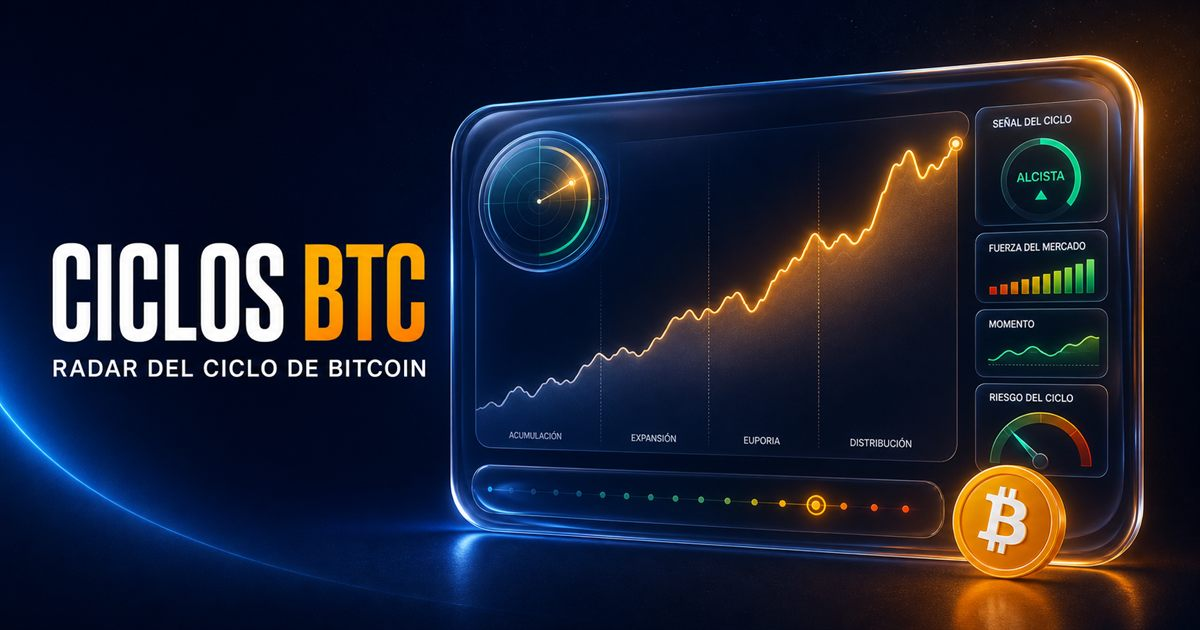
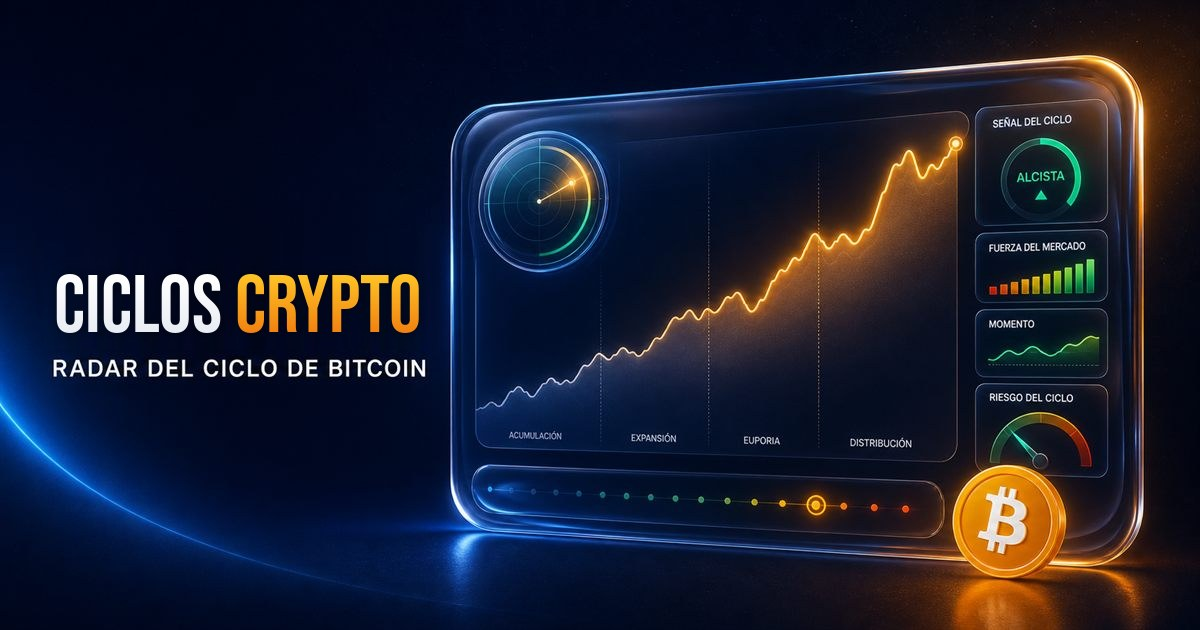
La app pasa a llamarse Ciclos Crypto
- Barra superior («Ciclos Crypto», con «Crypto» en el degradado naranja),
  título de la pestaña, nombre de la app instalada (manifiesto y iPhone),
  avisos push, textos de Información y Desarrollador, README y CLAUDE.md.
- Imagen al compartir el enlace (og.jpg): el mismo diseño con «CICLOS CRYPTO»
  en lugar de «CICLOS BTC»; «?v=2» para que WhatsApp, Telegram y compañía no
  sigan enseñando la anterior.
- En móviles de menos de 375 px el nombre no cabía: allí «LIVE» se queda en el
  punto (el estado lo sigue diciendo la etiqueta del botón) y, por debajo de
  360 px, los botones de moneda van un poco más juntos. Desde 375 px, igual.
- Lo interno (repositorio, claves guardadas en el navegador, caché) mantiene
  su nombre para no perder las preferencias de nadie.

Claude-Session: https://claude.ai/code/session_01L5NszNG9yirUS6hSs5xwUZ

Changed region(s): [[0.0308, 0.3619, 0.37, 0.5429]]

diff --git a/index.html b/index.html
@@ -16,27 +16,27 @@
     <meta name="theme-color" content="#071020" />
     <meta name="color-scheme" content="dark light" />
     <meta name="mobile-web-app-capable" content="yes" />
-    <meta name="application-name" content="Ciclos BTC" />
+    <meta name="application-name" content="Ciclos Crypto" />
     <meta name="apple-mobile-web-app-capable" content="yes" />
     <meta name="apple-mobile-web-app-status-bar-style" content="black-translucent" />
-    <meta name="apple-mobile-web-app-title" content="Ciclos BTC" />
+    <meta name="apple-mobile-web-app-title" content="Ciclos Crypto" />
     <meta
       name="description"
       content="Dashboard de ciclos de Bitcoin: caídas históricas, halvings, RSI, Fear & Greed, smart money y macro. Educativo, no es consejo financiero."
     />
     <meta property="og:type" content="website" />
     <meta property="og:locale" content="es_ES" />
-    <meta property="og:title" content="Ciclos BTC · Radar del ciclo de Bitcoin" />
+    <meta property="og:title" content="Ciclos Crypto · Radar del ciclo de Bitcoin" />
     <meta property="og:description" content="Datos de mercado, sentimiento, on-chain y macro en un radar educativo optimizado para móvil." />
     <meta property="og:url" content="__SITE_ORIGIN__/" />
-    <meta property="og:image" content="__SITE_ORIGIN__/og.jpg" />
+    <meta property="og:image" content="__SITE_ORIGIN__/og.jpg?v=2" />
     <meta property="og:image:width" content="1200" />
     <meta property="og:image:height" content="630" />
     <meta name="twitter:card" content="summary_large_image" />
-    <meta name="twitter:title" content="Ciclos BTC · Radar del ciclo de Bitcoin" />
+    <meta name="twitter:title" content="Ciclos Crypto · Radar del ciclo de Bitcoin" />
     <meta name="twitter:description" content="Datos de mercado, sentimiento, on-chain y macro en un radar educativo optimizado para móvil." />
-    <meta name="twitter:image" content="__SITE_ORIGIN__/og.jpg" />
-    <title>Ciclos BTC · ¿Por Qué las Caídas Son Oportunidades?</title>
+    <meta name="twitter:image" content="__SITE_ORIGIN__/og.jpg?v=2" />
+    <title>Ciclos Crypto · ¿Por Qué las Caídas Son Oportunidades?</title>
   </head>
   <body>
     <div id="root"></div>

diff --git a/src/components/layout/TopBar.tsx b/src/components/layout/TopBar.tsx
@@ -79,7 +79,7 @@ export function TopBar({ source, lastUpdated, refreshing, error, sinConexion = f
             <MonedaBtc />
             <p className="truncate text-sm font-black tracking-tight min-[360px]:text-base sm:text-lg">
               <span className="text-primary">Ciclos </span>
-              <span className="bg-gradient-to-r from-amber-500 via-orange-500 to-orange-600 bg-clip-text text-transparent dark:from-amber-300 dark:via-orange-400 dark:to-orange-600">BTC</span>
+              <span className="bg-gradient-to-r from-amber-500 via-orange-500 to-orange-600 bg-clip-text text-transparent dark:from-amber-300 dark:via-orange-400 dark:to-orange-600">Crypto</span>
             </p>
           </div>
 
@@ -99,7 +99,8 @@ export function TopBar({ source, lastUpdated, refreshing, error, sinConexion = f
                   onClick={() => setCurrency(value)}
                   aria-pressed={currency === value}
                   className={cx(
-                    'min-h-9 rounded-full px-2.5 text-[10px] font-black uppercase sm:px-3 sm:text-xs',
+                    // En móviles muy estrechos, un poco más juntos: si no, el nombre no cabe.
+                    'min-h-9 rounded-full px-2 text-[10px] font-black uppercase min-[360px]:px-2.5 sm:px-3 sm:text-xs',
                     currency === value ? 'liquid-control-active text-white' : 'text-muted',
                   )}
                 >
@@ -153,7 +154,9 @@ export function TopBar({ source, lastUpdated, refreshing, error, sinConexion = f
                   )}
                 />
               </span>
-              {estado === 'sin-conexion' ? 'Offline' : 'Live'}
+              {/* Por debajo de 375 px, solo el punto (el estado lo dice la etiqueta
+                  del botón): si no, «Ciclos Crypto» no cabe en la barra. */}
+              <span className="max-[374px]:sr-only">{estado === 'sin-conexion' ? 'Offline' : 'Live'}</span>
             </button>
           </div>
 

diff --git a/src/components/views/InfoView.tsx b/src/components/views/InfoView.tsx
@@ -358,7 +358,7 @@ export function InfoView() {
     >
       {/* Los apartados van de borde a borde, como antes: se come el margen del cuadro. */}
       <div className="-mx-4 -my-4 divide-y divide-white/10 sm:-mx-5 sm:-mb-5">
-        <Section title="Qué es Ciclos BTC" subtitle="Y cómo está organizada">
+        <Section title="Qué es Ciclos Crypto" subtitle="Y cómo está organizada">
           <p>
             Un panel de contexto sobre el ciclo de mercado de Bitcoin. Reúne precio, ciclos de
             halving, indicadores técnicos, datos on-chain, derivados, estado de la red y entorno
@@ -701,7 +701,7 @@ export function InfoView() {
           icon={<ShieldAlert size={16} className="text-btc" aria-hidden="true" />}
         >
           <p>
-            Ciclos BTC presenta datos de mercado, estimaciones e indicadores históricos con fines
+            Ciclos Crypto presenta datos de mercado, estimaciones e indicadores históricos con fines
             exclusivamente informativos y educativos. Nada de lo mostrado constituye una
             recomendación de compra, venta o mantenimiento de Bitcoin ni de ningún otro activo.
           </p>

diff --git a/api/_lib/providers/coingecko.ts b/api/_lib/providers/coingecko.ts
@@ -446,7 +446,7 @@ export async function getPriceHistory(
         const quote = safeVs.toUpperCase();
         const raw = CryptoCompareHistorySchema.parse(
           await fetchJson<unknown>(
-            `https://min-api.cryptocompare.com/data/v2/histoday?fsym=BTC&tsym=${quote}&allData=true&extraParams=CiclosBTC`,
+            `https://min-api.cryptocompare.com/data/v2/histoday?fsym=BTC&tsym=${quote}&allData=true&extraParams=CiclosCrypto`,
             { provider: 'cryptocompare', timeoutMs: 15_000 },
           ),
         );

diff --git a/api/_lib/alerts.ts b/api/_lib/alerts.ts
@@ -194,7 +194,7 @@ export async function broadcast(kind: AlertKind, msg: PushMessage): Promise<numb
 export async function sendTest(subscription: webpush.PushSubscription): Promise<boolean> {
   return (
     (await sendOne(subscription, {
-      title: 'Ciclos BTC Radar',
+      title: 'Ciclos Crypto',
       body: 'Las alertas funcionan. Te avisaremos cuando cambie la fase, el Altseason cruce de tramo o el miedo llegue a un extremo.',
       tag: 'prueba',
       url: '/',

diff --git a/src/components/views/DeveloperCard.tsx b/src/components/views/DeveloperCard.tsx
@@ -119,7 +119,7 @@ export function DeveloperCard() {
         Bitcoin, blockchain y criptomonedas.
       </p>
       <p className="mt-2 text-sm leading-relaxed text-secondary">
-        Si Ciclos BTC te resulta útil, puedes apoyar su desarrollo y ayudar a impulsar futuras
+        Si Ciclos Crypto te resulta útil, puedes apoyar su desarrollo y ayudar a impulsar futuras
         mejoras.
       </p>
 

diff --git a/public/sw.js b/public/sw.js
@@ -125,7 +125,7 @@ self.addEventListener('push', (event) => {
     msg = { body: event.data ? event.data.text() : '' };
   }
   event.waitUntil(
-    self.registration.showNotification(msg.title || 'Ciclos BTC Radar', {
+    self.registration.showNotification(msg.title || 'Ciclos Crypto', {
       body: msg.body || '',
       tag: msg.tag || 'ciclos',
       icon: '/icon-192.png?v=2',

diff --git a/CLAUDE.md b/CLAUDE.md
@@ -1,4 +1,4 @@
-# Ciclos BTC Radar: normas del proyecto
+# Ciclos Crypto: normas del proyecto
 
 Panel en español sobre el ciclo de Bitcoin (React + Vite + Tailwind; funciones de
 Vercel en `api/`). Se publica en https://ciclos.cryptoatalaya.com.

diff --git a/README.md b/README.md
@@ -1,4 +1,4 @@
-# Ciclos BTC · Dashboard de ciclos de Bitcoin
+# Ciclos Crypto · Dashboard de ciclos de Bitcoin
 
 **En producción:** https://ciclos.cryptoatalaya.com (también https://ciclos-btc-radar.vercel.app)
 
